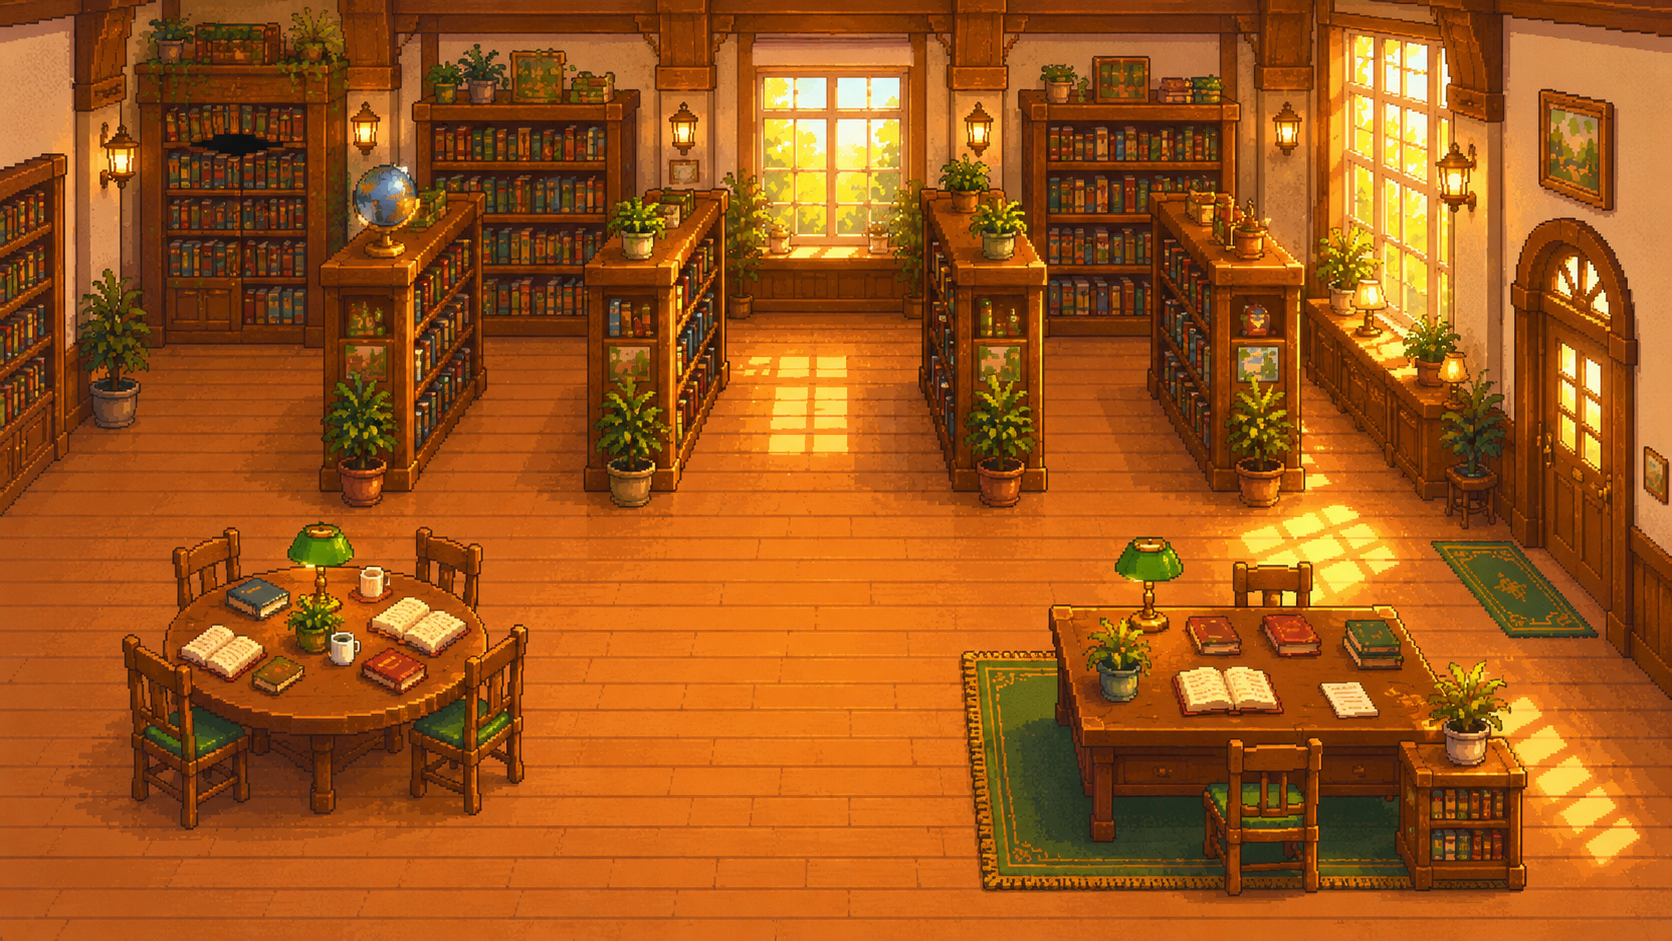
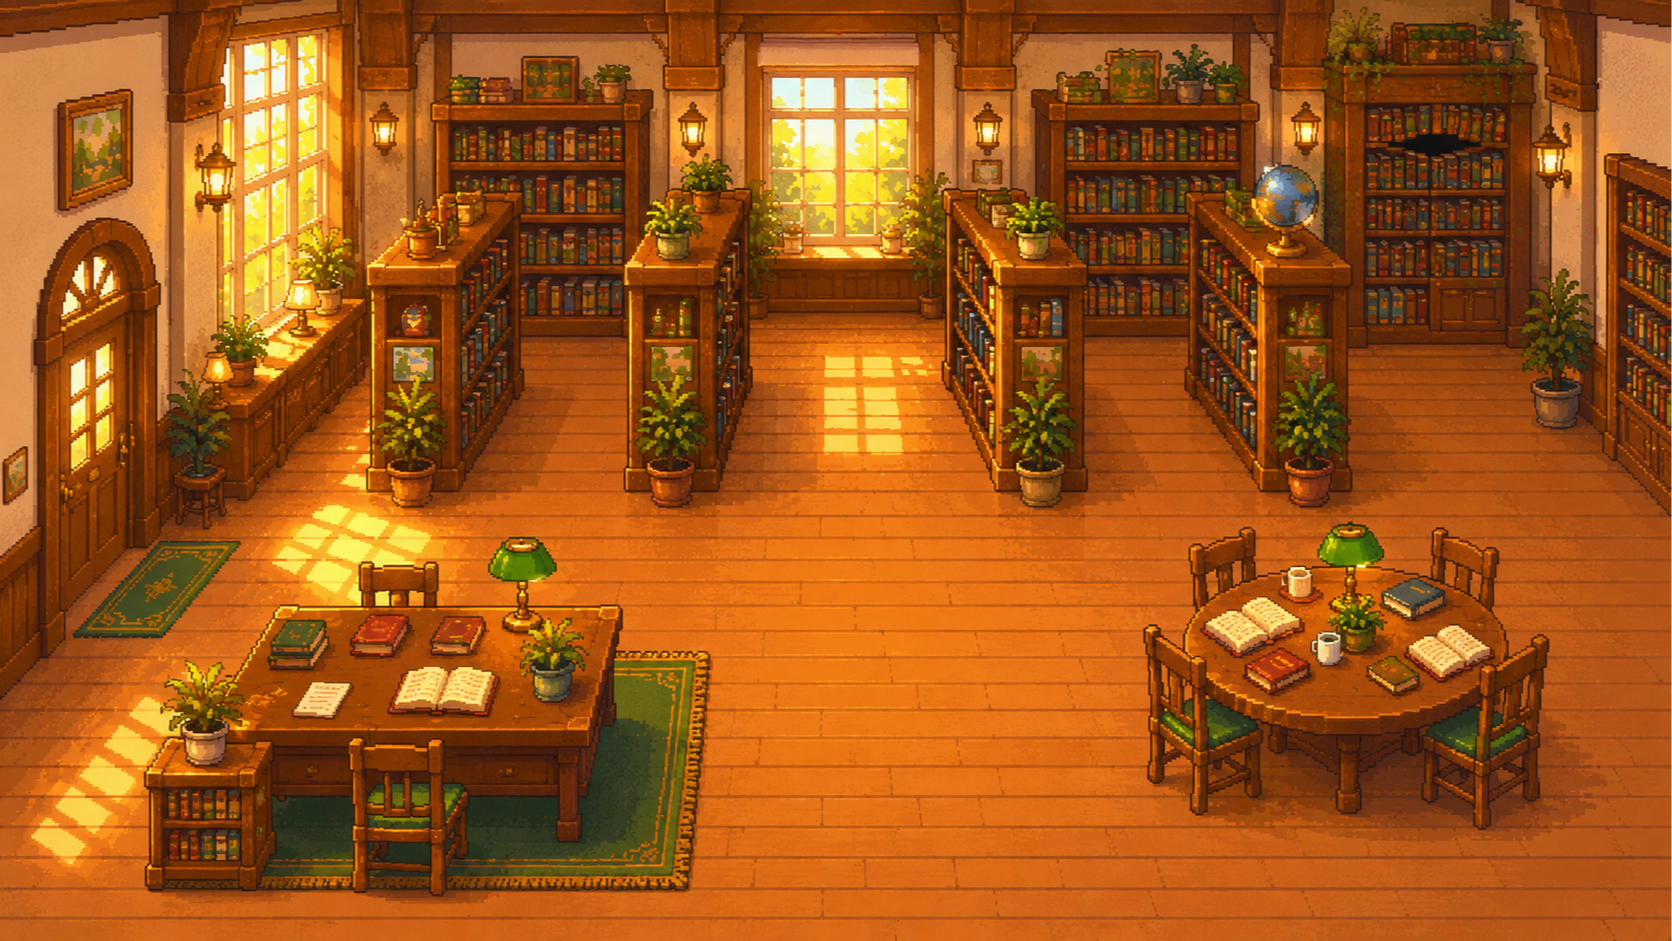
fix(game): add missing south exit to library
修复上锁的宝库缺少向南出口的问题。
- 图片也已更改正确
- exits 添加 south: "library"
- 添加 paths.south 移动路径配置
- 添加 ROOM_CONFIGS.locked_room.entryPoints.south
- 现在可以从 locked_room 向南走到图书馆

diff --git a/web/game.js b/web/game.js
@@ -337,7 +337,7 @@ let sessionId = null;
 let currentUsername = null;
 let pendingAuthData = null;
 let lastBackendStatus = null;
-let currentPlayerPosition = { left: 50, top: 76 };
+let currentPlayerPosition = { left: 50, top: 50 };
 
 const gameState = {
     inventory: [],
@@ -412,8 +412,11 @@ function setCommandControlsDisabled(disabled) {
 }
 
 function canMoveToDirection(direction) {
-    const room = rooms[currentRoomId];
-    return Boolean(room && room.exits && room.exits[direction]);
+    const roomConfig = ROOM_CONFIGS[currentRoomId] || ROOM_CONFIGS.main_hall;
+    const channels = roomConfig.channels || ['vertical', 'horizontal'];
+    if ((direction === 'north' || direction === 'south') && !channels.includes('vertical')) return false;
+    if ((direction === 'east' || direction === 'west') && !channels.includes('horizontal')) return false;
+    return true;
 }
 
 function updateDirectionControls() {
